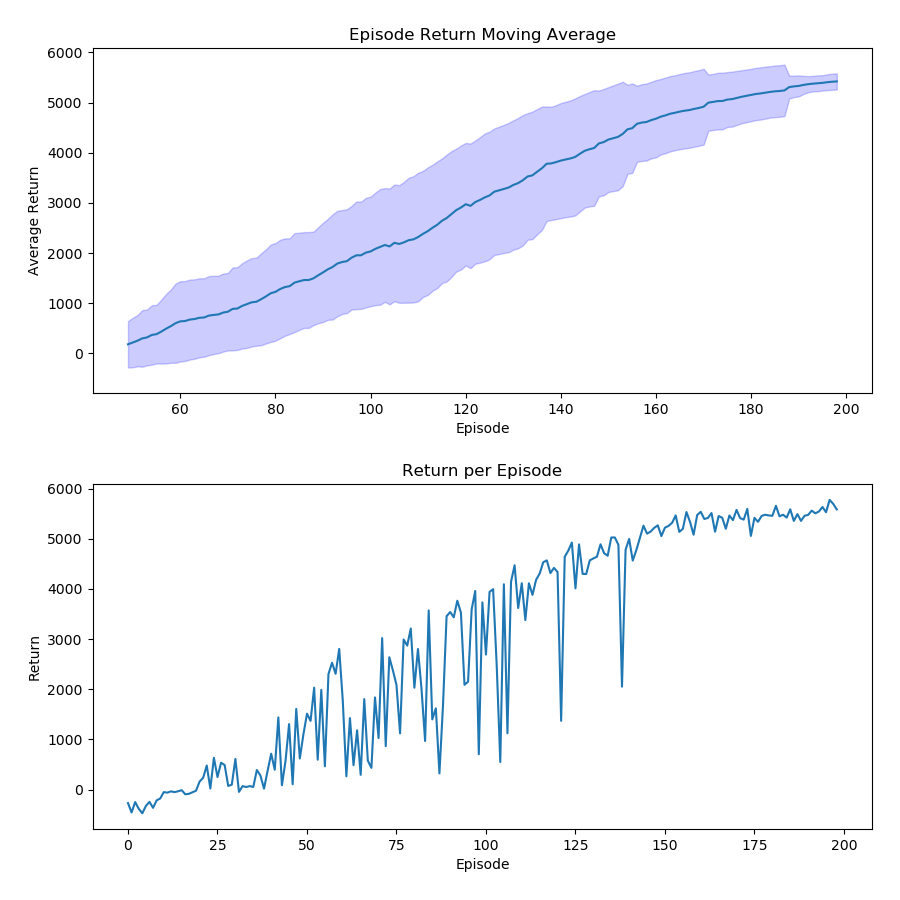
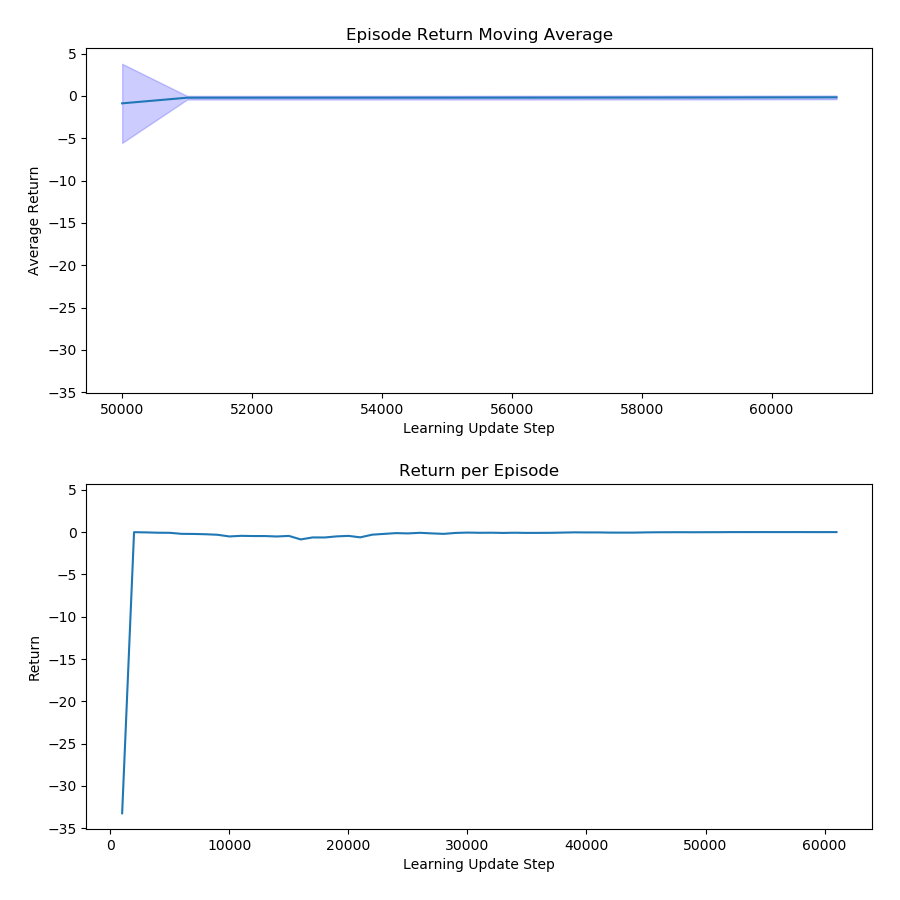
Update scale to be over steps instead of episodes

diff --git a/src/train.py b/src/train.py
@@ -51,28 +51,28 @@ def update_SAC(sac, replay, step, writer, batch_size=256, log_interval=20):
         )
 
 
-def plot_success(reward_history):
+def plot_success(reward_history, time_steps):
     # number of episodes for rolling average
     window = 50
 
     fig, ((ax1), (ax2)) = plt.subplots(2, 1, sharey=True, figsize=[9, 9])
     rolling_mean = pd.Series(reward_history).rolling(window).mean()
     std = pd.Series(reward_history).rolling(window).std()
-    ax1.plot(rolling_mean)
+    ax1.plot(time_steps, rolling_mean)
     ax1.fill_between(
-        range(len(reward_history)),
+        time_steps,
         rolling_mean - std,
         rolling_mean + std,
         color="blue",
         alpha=0.2,
     )
     ax1.set_title("Episode Return Moving Average")
-    ax1.set_xlabel("Episode")
+    ax1.set_xlabel("Learning Update Step")
     ax1.set_ylabel("Average Return")
 
-    ax2.plot(reward_history)
+    ax2.plot(time_steps, reward_history)
     ax2.set_title("Return per Episode")
-    ax2.set_xlabel("Episode")
+    ax2.set_xlabel("Learning Update Step")
     ax2.set_ylabel("Return")
 
     fig.tight_layout(pad=2)
@@ -135,6 +135,8 @@ def train(args):
     writer = init_logger(log_dir=args.log_dir)
 
     sac = SAC(env, alpha=args.alpha, at=args.alph_tune, dis=discrete)
+    if args.continue_training:
+        sac.load()
     sac.init_opt(lr=args.learning_rate)
     sac = sac.to(device)
     act_size = sac.actor.action_space
@@ -146,6 +148,7 @@ def train(args):
     max_reward = -float("inf")
 
     reward_history = []
+    time_steps = []
     eval_history = []
     for i_episode in itertools.count(1):
         episode_reward = 0
@@ -204,6 +207,7 @@ def train(args):
 
         # Calculate score to determine when the environment has been solved
         reward_history.append(episode_reward)
+        time_steps.append(total_steps)
         mean_score = np.mean(reward_history[-100:])
         if writer is not None:
             writer.add_scalar("stats/reward", episode_reward, total_steps)
@@ -222,5 +226,7 @@ def train(args):
 
     fname = "results.out"
     data = np.array(reward_history)
-    np.savetxt(fname, data)
-    plot_success(reward_history)
+    time = np.array(time_steps)
+    dat = np.stack((data, time), axis=0)
+    np.savetxt(fname, dat)
+    plot_success(reward_history, time_steps)
